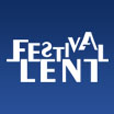
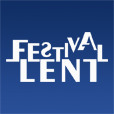
New better images and some positioning.

diff --git a/Resources/view/about.js b/Resources/view/about.js
@@ -20,9 +20,9 @@ function view_init(win) {
 	win.imageApp = Ti.UI.createImageView({
 		image:'../images/logo_lent2011.png',
 		top:30,
-		left:15,
-		height:80,
-		width:80
+		left:25,
+		height:72,
+		width:72
 	});
 	win.add(win.imageApp);
 	
@@ -41,7 +41,7 @@ function view_init(win) {
 	win.label_author = Titanium.UI.createLabel({
 		top:70,
 		height:30,
-		left:110,
+		left:140,
 		width:'auto',
 		font:{fontSize:16,fontFamily:'Arial'},
 		textAlign:'left',
@@ -80,8 +80,8 @@ function view_init(win) {
 	
 	win.imageCompany = Ti.UI.createImageView({
 		image:'../images/logo_agenda.png',
-		bottom:40,
-		height:48,
+		bottom:30,
+		height:60,
 		width:250
 	});
 	win.add(win.imageCompany);
